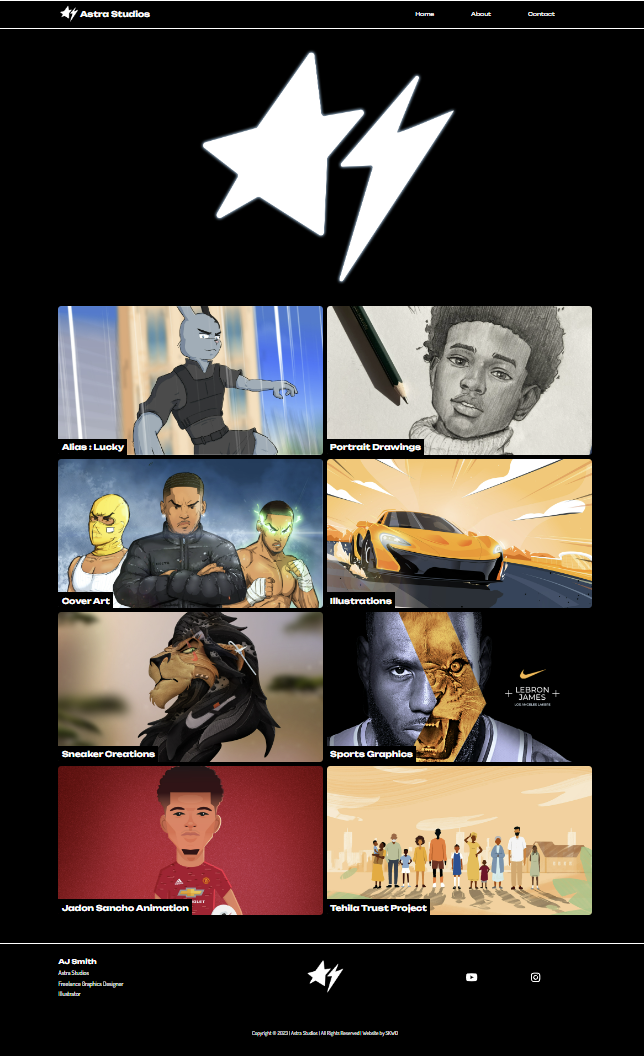
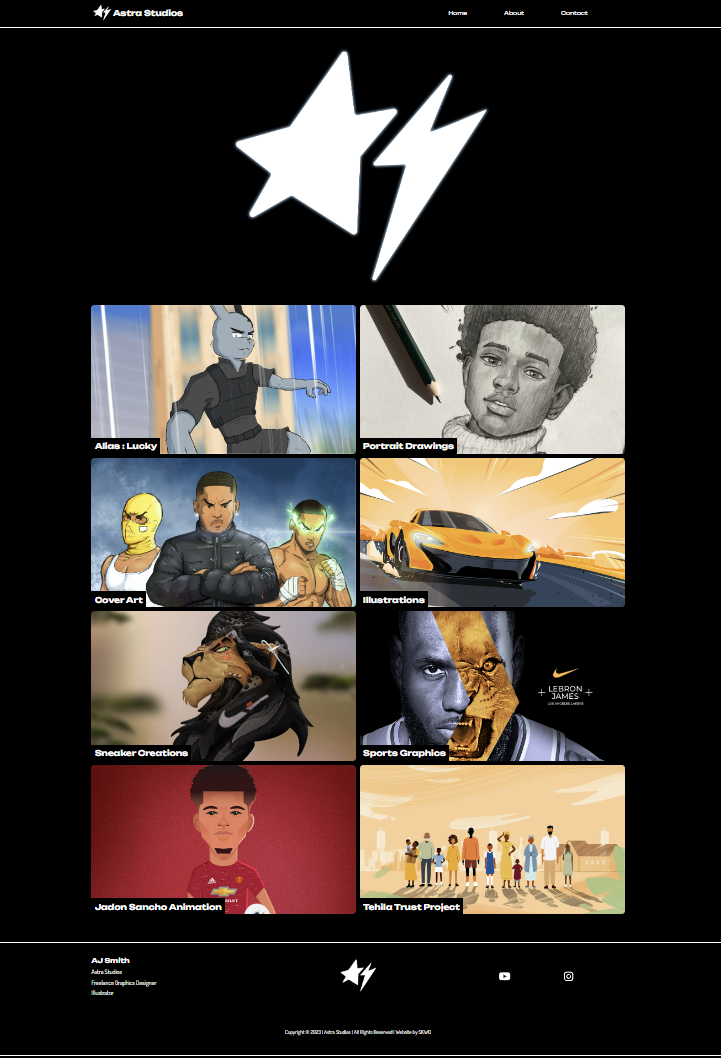
finsihed project pages

diff --git a/src/app/projects/daintree/DaintreeInfo.jsx b/src/app/projects/daintree/DaintreeInfo.jsx
@@ -1,0 +1,37 @@
+import React from 'react'
+import styles from '../astra/AstraInfo.module.scss'
+import Link from 'next/link'
+import { Playfair_Display } from "next/font/google";
+
+const playfairDisplay = Playfair_Display({ subsets: ["latin"] });
+
+function DaintreeInfo() {
+  return (
+    <section className='container'>
+          <section className='container'>
+      <div className={styles.overview}>
+        <h2 className={playfairDisplay.className}>Daintree</h2>
+        <p className={styles.subtitle}>By Szymon Kaluza</p>
+        <p>
+         This is a project to populate my portofilio and demostrate skills in implimenting different API's to make a fully functioning E-commerce website. I have used Fakestore API for all the products , I have implemented Stripe payment API for the checkout. I've also constructed a shopping basket context to allow the user easy and fluid use of adding products and adjusting the quantity of products in the basket. 
+        </p>
+        <p>I took a lot of insperation from department store websites like House Of Fraser and Amazon on how to layout the website and different design ideas and other features like the featured products. I've also used GetStaticParams for the category pages to improve site performance since Next.JS will create the pages before the user requests to see them making the load times a lot quicker, This was also used on the single product pages that gives you the description of the product.  </p>
+        <p>
+          This project was created using Next.JS and deployed on AWS Amplify.
+        </p>
+        <p>
+          Visit his website here. 
+          <Link href={"https://shop.skwd.co.uk"}> Click Here</Link>
+        </p>
+
+        <h2 className={playfairDisplay.className}>Showcase</h2>
+        <p>Here are a couple of pages Daintree has to offer. I urge you to have a visit and play around like it was a real e-commerece website but unfortunatly it's not. With the Stripe checkout out you will have to use their test cards that you can find <Link href={"https://stripe.com/docs/testing"}>here</Link>.</p>
+
+      </div>
+      <div className={styles.links}></div>
+    </section>
+    </section>
+  )
+}
+
+export default DaintreeInfo

diff --git a/src/app/projects/astra/AstraImg.jsx b/src/app/projects/astra/AstraImg.jsx
@@ -1,19 +1,34 @@
-import React from 'react'
-import styles from './AstraImg.module.scss'
+import React from "react";
+import styles from "./AstraImg.module.scss";
 
 function AstraImg() {
   return (
-    <section className='container'>
-        <div className={styles.imageGrid}>
-            <img className={styles.img1} src="/img/AstraHome.png" alt="" />
-            <img className={styles.img2} src="/img/AstraContactForm.png" alt="" />
-            <img className={styles.img3} src="/img/AstraAbout.png" alt="" />
-            <img className={styles.img4} src="/img/AstraProjectDrawings.png" alt="" />
-            <img className={styles.img5} src="/img/AstraProjectSancho.png" alt="" />
-            <img className={styles.img6} src="/img/AstraProjectTehila.png" alt="" />
+    <section className="container">
+      <div className={styles.imageGrid1}>
+        <div className={styles.imgWrapper}>
+          <img src="/img/AstraHome.png" alt="" />
         </div>
+        <div className={styles.imgWrapper}>
+          <img src="/img/AstraJS.png" alt="" />
+        </div>
+        <div className={styles.imgWrapper}>
+          <img src="/img/AstraPD.png" alt="" />
+        </div>
+        <div className={styles.imgWrapper}>
+          <img src="/img/AstraSG.png" alt="" />
+        </div>
+      </div>
+
+      <div className={styles.imageGrid2}>
+        <div className={styles.imgWrapper}>
+          <img src="/img/AstraContact.png" alt="" />
+        </div>
+        <div className={styles.imgWrapper}>
+          <img src="/img/AstraAbout.png" alt="" />
+        </div>
+      </div>
     </section>
-  )
+  );
 }
 
-export default AstraImg
+export default AstraImg;

diff --git a/src/app/projects/astra/AstraImg.module.scss b/src/app/projects/astra/AstraImg.module.scss
@@ -1,40 +1,44 @@
-.imageGrid {
+.imageGrid1{
   display: grid;
-  grid-gap: 30px;
-  grid-template-areas:
-    "img1 img2 img2"
-    "igm1 igm3 img3"
-    "img4 img5 img6"
-    "img4 img5 img6";
+  grid-template-columns: repeat(4,1fr);
+  justify-content: center;
+  margin: auto;
+  padding: 30px 0;
+  grid-gap:30px;
+  width: 80%;
 
-  .img1 {
-    grid-area: img1;
-    height: 100%;
-    width: 100%;
+
+  .imgWrapper{
+    display: flex;
+    justify-content: center;
+    align-items: center;
+    border: solid 1px #ccc;
+    img{
+      
+      height: 100%;
+      width: 100%;
+    }
   }
-  .img2 {
-    grid-area: img2;
-    height: 100%;
-    width: 100%;
-  }
-  .img3 {
-    grid-area: img3;
-    height: 100%;
-    width: 100%;
-  }
-  .img4 {
-    grid-area: img4;
-    height: 100%;
-    width: 100%;
-  }
-  .img5 {
-    grid-area: img5;
-    height: 100%;
-    width: 100%;
-  }
-  .img6 {
-    grid-area: img6;
-    height: 100%;
-    width: 100%;
+}
+.imageGrid2{
+  display: grid;
+  grid-template-columns: repeat(2,1fr);
+  justify-content: center;
+  margin: auto;
+  padding: 30px 0;
+  grid-gap:30px;
+  width: 80%;
+
+
+  .imgWrapper{
+    display: flex;
+    justify-content: center;
+    align-items: center;
+    border: solid 1px #ccc;
+    img{
+      
+      height: 100%;
+      width: 100%;
+    }
   }
 }

diff --git a/src/app/projects/daintree/DaintreeImg.jsx b/src/app/projects/daintree/DaintreeImg.jsx
@@ -1,0 +1,22 @@
+import React from "react";
+import styles from "./DaintreeImg.module.scss";
+
+function DaintreeImg() {
+  return (
+    <section className="container">
+      <div className={styles.imageGrid1}>
+        <div className={styles.imgWrapper}>
+          <img src="/img/DaintreeHome2.png" alt="" />
+        </div>
+        <div className={styles.imgWrapper}>
+          <img src="/img/DaintreeShoppingBasket.png" alt="" />
+        </div>
+        <div className={styles.imgWrapper}>
+          <img src="/img/DaintreeAllProducts.png" alt="" />
+        </div>
+      </div>
+    </section>
+  );
+}
+
+export default DaintreeImg;

diff --git a/src/app/contact/ContactSection.jsx b/src/app/contact/ContactSection.jsx
@@ -128,16 +128,13 @@ export default function ContactSection() {
               )}
             </div>
 
-            <div className={styles.button}>
-              <input type="submit" className={overpass.className} />
-            </div>
-
             <div className={styles.recaptcha}>
               <ReCAPTCHA sitekey={SITE_KEY} ref={reRef} />
             </div>
+            <div className={styles.button}>
+              <input type="submit" className={overpass.className} />
+            </div>
           </form>
-
-      
         </div>
       </div>
     </section>

diff --git a/src/app/projects/astra/AstraInfo.jsx b/src/app/projects/astra/AstraInfo.jsx
@@ -29,6 +29,10 @@ function AstraInfo() {
           Visit his website here. 
           <Link href={"https://www.astrastudios.co.uk/"}> Click Here</Link>
         </p>
+
+        <h2 className={playfairDisplay.className}>Showcase</h2>
+        <p>Here a few of many pages that the website has. I urge you to visit as AJ has created some really good animation that I'm unable to display with just a simple screnshot of his page and you can see the finer details of his work.</p>
+
       </div>
       <div className={styles.links}></div>
     </section>

diff --git a/src/app/projects/daintree/DaintreeHero.jsx b/src/app/projects/daintree/DaintreeHero.jsx
@@ -1,0 +1,19 @@
+import styles from '@/app/services/ServicesHero.module.scss'
+import { Playfair_Display } from 'next/font/google'
+
+
+const playfairDisplay = Playfair_Display({ subsets: ['latin'] })
+
+
+
+export default function DaintreeHero() {
+    return (
+        <div className={styles.hero}>
+            <div className='container'>
+                <div className={styles.heroInfo}>
+                    <h1 className={playfairDisplay.className}>Daintree</h1>
+                </div>
+            </div>
+        </div>
+    )
+}

diff --git a/src/app/projects/daintree/DaintreeImg.module.scss b/src/app/projects/daintree/DaintreeImg.module.scss
@@ -1,0 +1,24 @@
+.imageGrid1{
+    display: grid;
+    grid-template-columns: repeat(3,1fr);
+    justify-content: center;
+    margin: auto;
+    padding: 30px 0;
+    grid-gap:30px;
+    width: 80%;
+  
+  
+    .imgWrapper{
+      display: flex;
+      justify-content: center;
+      align-items: center;
+      border: solid 1px #ccc;
+      img{
+        
+        height: 100%;
+        width: 100%;
+      }
+    }
+  }
+
+  

diff --git a/src/app/projects/daintree/page.js b/src/app/projects/daintree/page.js
@@ -1,0 +1,16 @@
+import React from 'react'
+import DaintreeHero from './DaintreeHero'
+import DaintreeInfo from './DaintreeInfo'
+import DaintreeImg from './DaintreeImg'
+
+function Daintree() {
+  return (
+    <main>
+        <DaintreeHero/>
+        <DaintreeInfo/>
+        <DaintreeImg/>
+    </main>
+  )
+}
+
+export default Daintree
